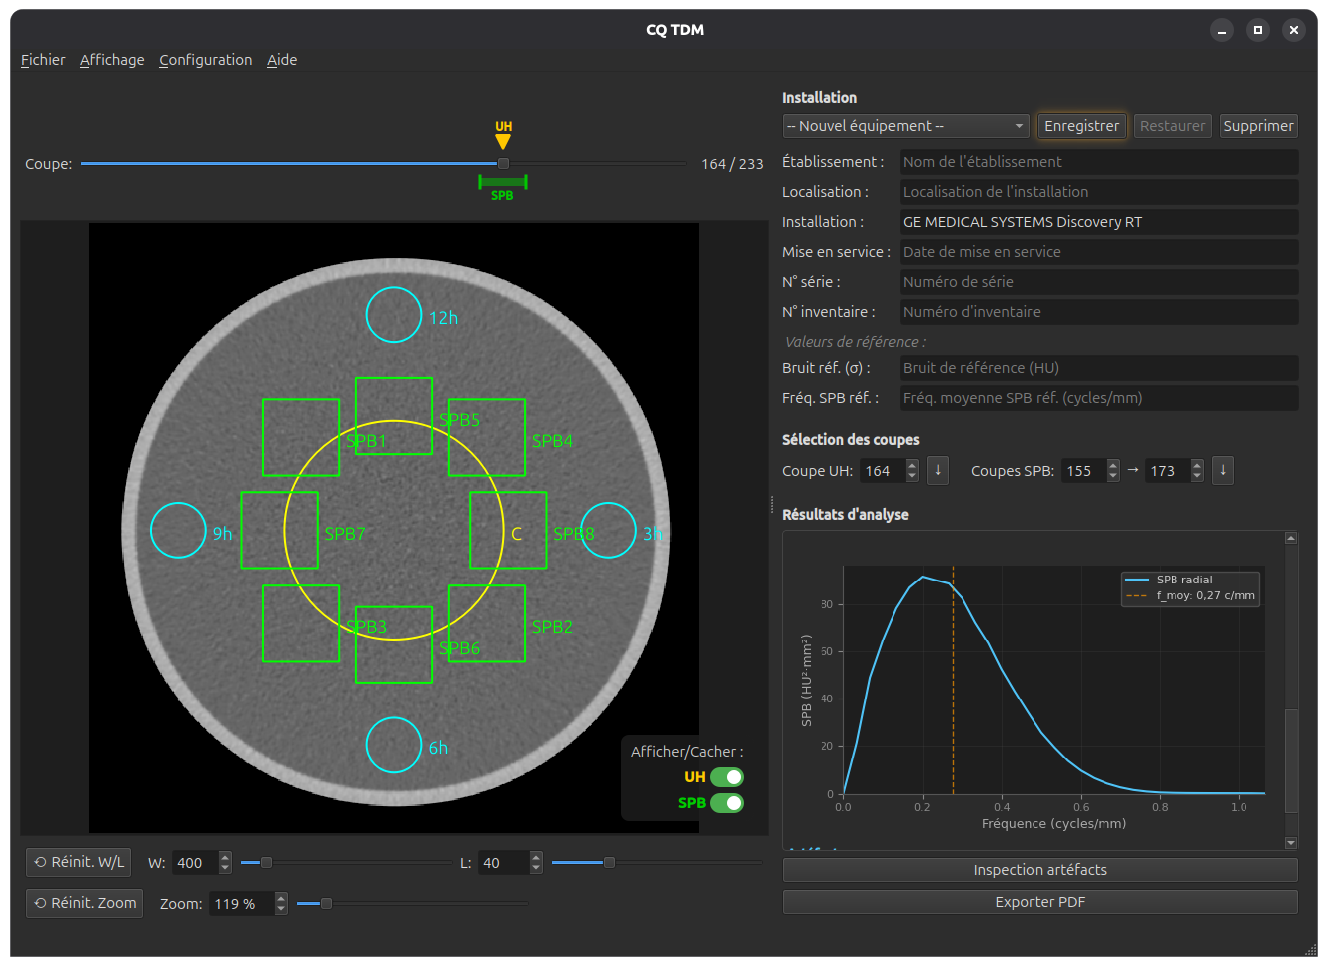
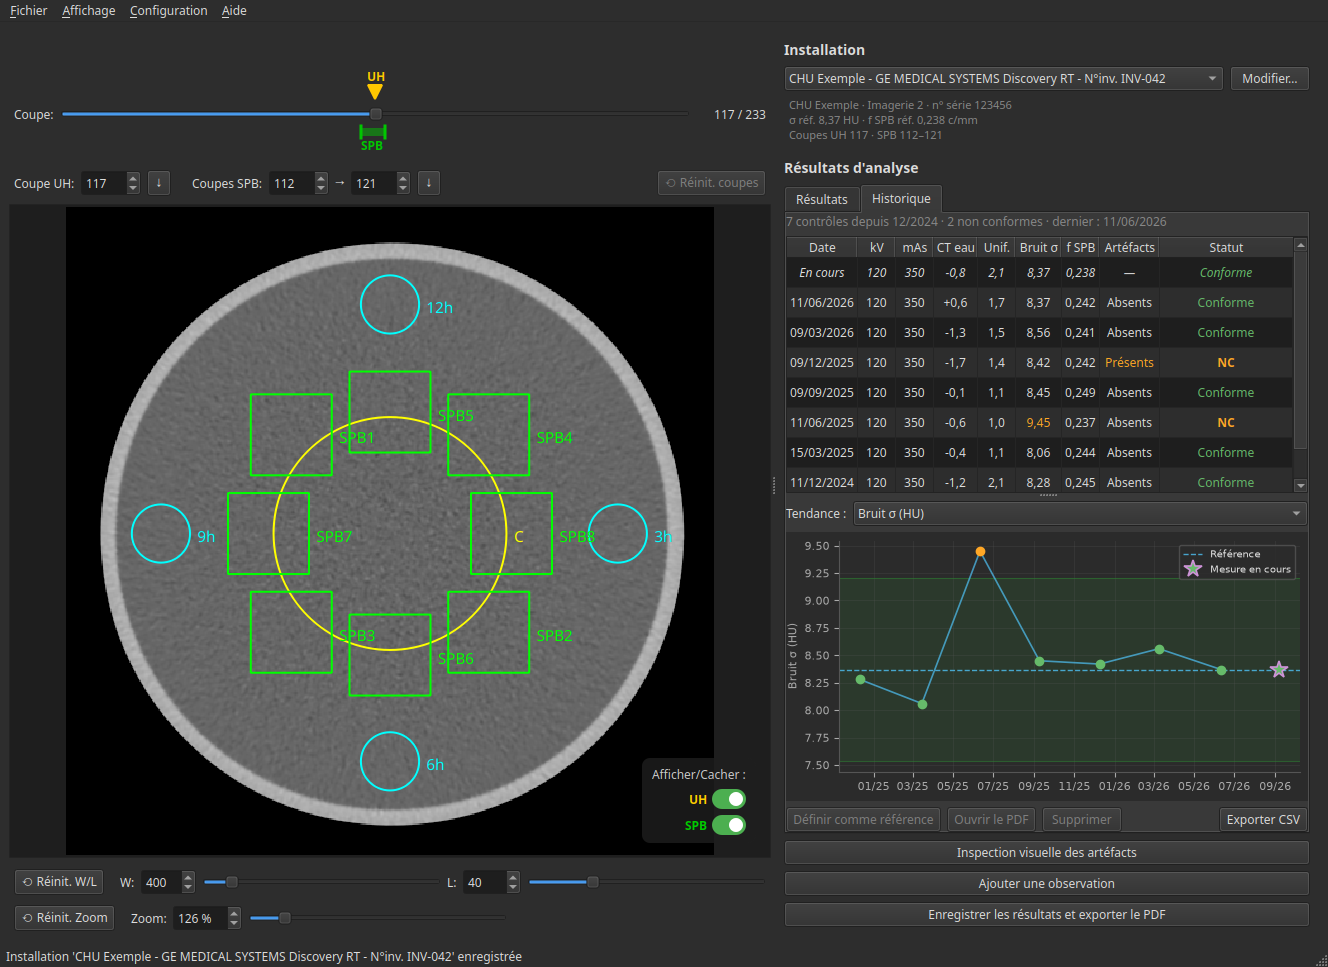
Bump version to 0.4.0, update README and screenshot for the results history

Changed region(s): [[0.0, 0.0, 1.0, 1.0], [0.8953, 0.4033, 0.9262, 0.4343], [0.2779, 0.062, 0.3087, 0.0931]]

diff --git a/src/cq_tdm/__init__.py b/src/cq_tdm/__init__.py
@@ -1,3 +1,3 @@
 """CQ TDM - CT Scanner Quality Control Software."""
 
-__version__ = "0.3.10"
+__version__ = "0.4.0"

diff --git a/README.md b/README.md
@@ -22,12 +22,17 @@ CQ TDM (ou cq-tdm) analyse les images DICOM de fantômes cylindriques remplis d'
 - **Gestion des ROI** :
   - Détection automatique du fantôme et placement des ROI
   - Export des ROI (JSON, compatible avec IQMetrix-CT)
-- **Génération de rapports PDF**
+- **Génération de rapports PDF** avec statuts de conformité, valeurs de référence et historique des contrôles
+- **Historique des résultats** :
+  - Chaque rapport exporté est enregistré comme un contrôle de l'installation (date d'acquisition, paramètres, mesures, statuts, valeurs de référence en vigueur, chemin du PDF)
+  - Onglet « Historique » : tableau des contrôles et graphique de tendance par grandeur avec la bande de tolérance ANSM ; un clic sur un point sélectionne le contrôle
+  - Définition des valeurs de référence à partir d'un contrôle passé, export CSV, ouverture du rapport PDF associé
 - **Base de données des appareils** :
-  - Enregistrement des valeurs de référence (magnitude du bruit et fréquence moyenne du SPB) et des informations d'identification
+  - Enregistrement des valeurs de référence (magnitude du bruit et fréquence moyenne du SPB), des informations d'identification et des coupes de mesure
   - Détection automatique des appareils enregistrés
   - Possibilité d'utiliser une base de données commune et en réseau entre plusieurs postes
-  
+  - L'historique des contrôles est stocké dans le même fichier que les appareils (`devices.json`)
+
 
 ## Cadre réglementaire
 
@@ -131,11 +136,12 @@ pip install -e .
 ## Utilisation
 
 1. Lancer l'application
-2. Charger une série DICOM
-3. Modifier les détails de l'appareil, les valeurs de référence et les coupes de mesure
-4. Enregistrer
-5. Vérifier les artéfacts
-6. Générer le rapport PDF
+2. Charger une série DICOM (l'installation est reconnue automatiquement si elle a déjà été enregistrée)
+3. Choisir les coupes de mesure sous le curseur de coupe ; « Réinit. coupes » revient aux coupes enregistrées
+4. Cliquer sur « Modifier… » pour renseigner l'installation et les valeurs de référence, puis « Enregistrer »
+5. Vérifier les artéfacts et ajouter une observation si nécessaire
+6. Cliquer sur « Enregistrer les résultats et exporter le PDF » : le rapport est généré et le contrôle est ajouté à l'historique de l'installation
+7. Consulter l'onglet « Historique » pour suivre l'évolution des mesures d'un contrôle à l'autre
 
 ## Signaler un problème
 
